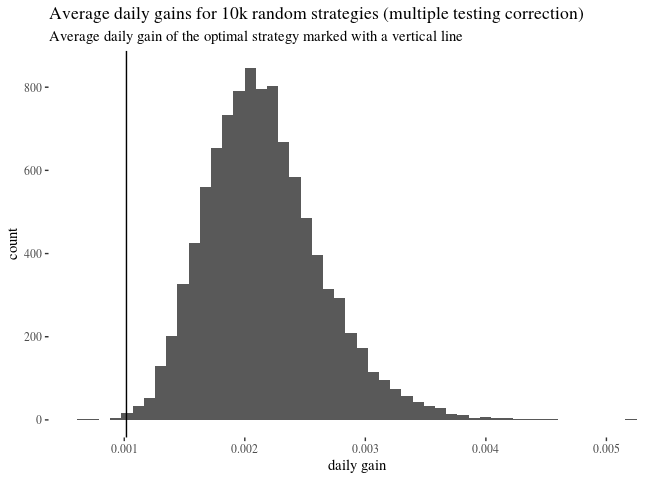
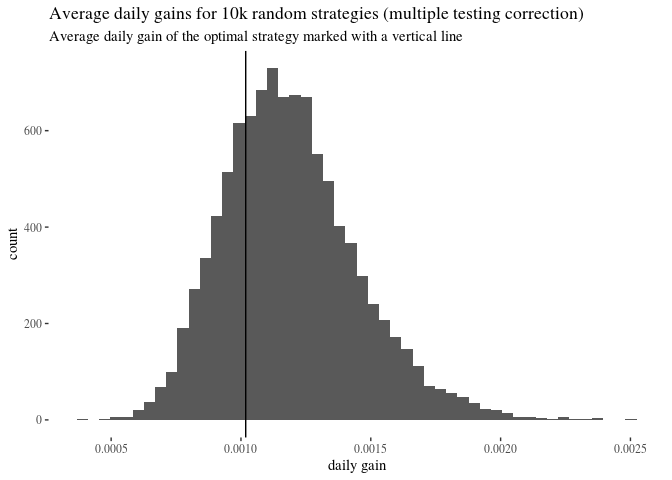
r

diff --git a/_drafts/backtesting.md b/_drafts/backtesting.md
@@ -43,7 +43,7 @@ head(US500)
 nrow(US500)
 ```
 
-    ## [1] 3663
+    ## [1] 3664
 
 ``` r
 US500full <- US500
@@ -370,7 +370,7 @@ annualOnMarketTest <- round(length(returnsCtest)/nrow(US500test) *200)
 (1+mean(returnsCtest))^annualOnMarketTest
 ```
 
-    ## [1] 1.006072
+    ## [1] 1.005835
 
 ``` r
 #now comparison with random strategies
@@ -397,7 +397,7 @@ ggplot()+geom_histogram(aes(x=randomGainstest), bins = 50)+geom_vline(xintercept
 sum(randomGainstest >= daily)/length(randomGainstest)
 ```
 
-    ## [1] 0.4184
+    ## [1] 0.4198
 
 We can also plot extra equities for our strategy, buying and holding, and a bunch of random equities.
 
@@ -514,7 +514,7 @@ topDaily <- optionsSorted[1,3]
 topDaily/daily
 ```
 
-    ## [1] 5.381827
+    ## [1] 5.599768
 
 Woah, that's more than five times better than the old one, right? so you're like, aha, let's use lookback 25 and multiplier 1.7!
 
@@ -550,6 +550,8 @@ Right on! Now your strategy is better than around ![98\\%](https://latex.codecog
 But wait. Note that this time you tested 42 different strategies and chose the best one, so you need to correct for multiple testing. Your bootstrapping evaluation should mimic this. So instead of comparison to a bunch of random stragies, you should every time get 42 random strategies and pick the best one as a potential candidate. Like this:
 
 ``` r
+set.seed(999)
+n <- length(returnsCoptimal)
 randomGainsMax42 <- numeric(10000)
 for(g in 1:10000){
     group <- numeric(42)
@@ -571,6 +573,6 @@ ggplot()+geom_histogram(aes(x=randomGainsMax42), bins = 50)+geom_vline(xintercep
 sum(randomGainsMax42 > GAIN)/length(randomGainsMax42)
 ```
 
-    ## [1] 0.9984
+    ## [1] 0.7338
 
 This is slightly less impressive. If instead of coming up with a meticulous list of potential parameter combinations and optimizing, you simply randomly generated 42 random strategies, the best of those would around ![99\\%](https://latex.codecogs.com/png.latex?99%5C%25 "99\%") of the time do better than the one you obtained by optimizing. Huh.

diff --git a/index.md b/index.md
@@ -658,5 +658,5 @@ sum(randomGainsMax42 > GAIN)/length(randomGainsMax42)
 
     ## [1] 0.9984
 
-This is slightly less impressive. If instead of coming up with a meticulous list of potential parameter combinations and optimizing, you simply randomly generated 42 random strategies, the best of those would around ![99\\%](https://latex.codecogs.com/png.latex?99%5C%25 "99\%") of the time do better than the one you obtained by optimizing. Huh.
+This is slightly less impressive. If instead of coming up with a meticulous list of potential parameter combinations and optimizing, you simply randomly generated 42 random strategies, the best of those would around ![73\\%](https://latex.codecogs.com/png.latex?99%5C%25 "73\%") of the time do better than the one you obtained by optimizing. Huh.
 <!-- Z kwestii formalnych na szybko to 1. Trzeba sprawdzić jak łatwo jest wyszukać z Googla artykuł bo wygląda super więc warto gdyby łatwo byłoby go znaleźć 2. Nie myślałeś o publikacji na jakimś portalu z takimi wpisami jak medium? Myślę że byłby doceniony bardzo bo dobra jakość nie jest częsta ostatnio 3. Na dole brakuje sekcji z komentarzami (na telefonie przynajmniej nie widzę) gdyby ktoś zauważył błąd albo chciał o coś dopytać. 4. Później na spokojnie jeszcze przejrze 5. Na takich stronach jak medium często na początku artykułu jest obrazek nawiązujący do tematu, który pobudza wyobraźnię, są strony z bezplatnymi zdjęciami jak da się autorom credits. To coś takiego dodatkowego co mi przyszło.-->
